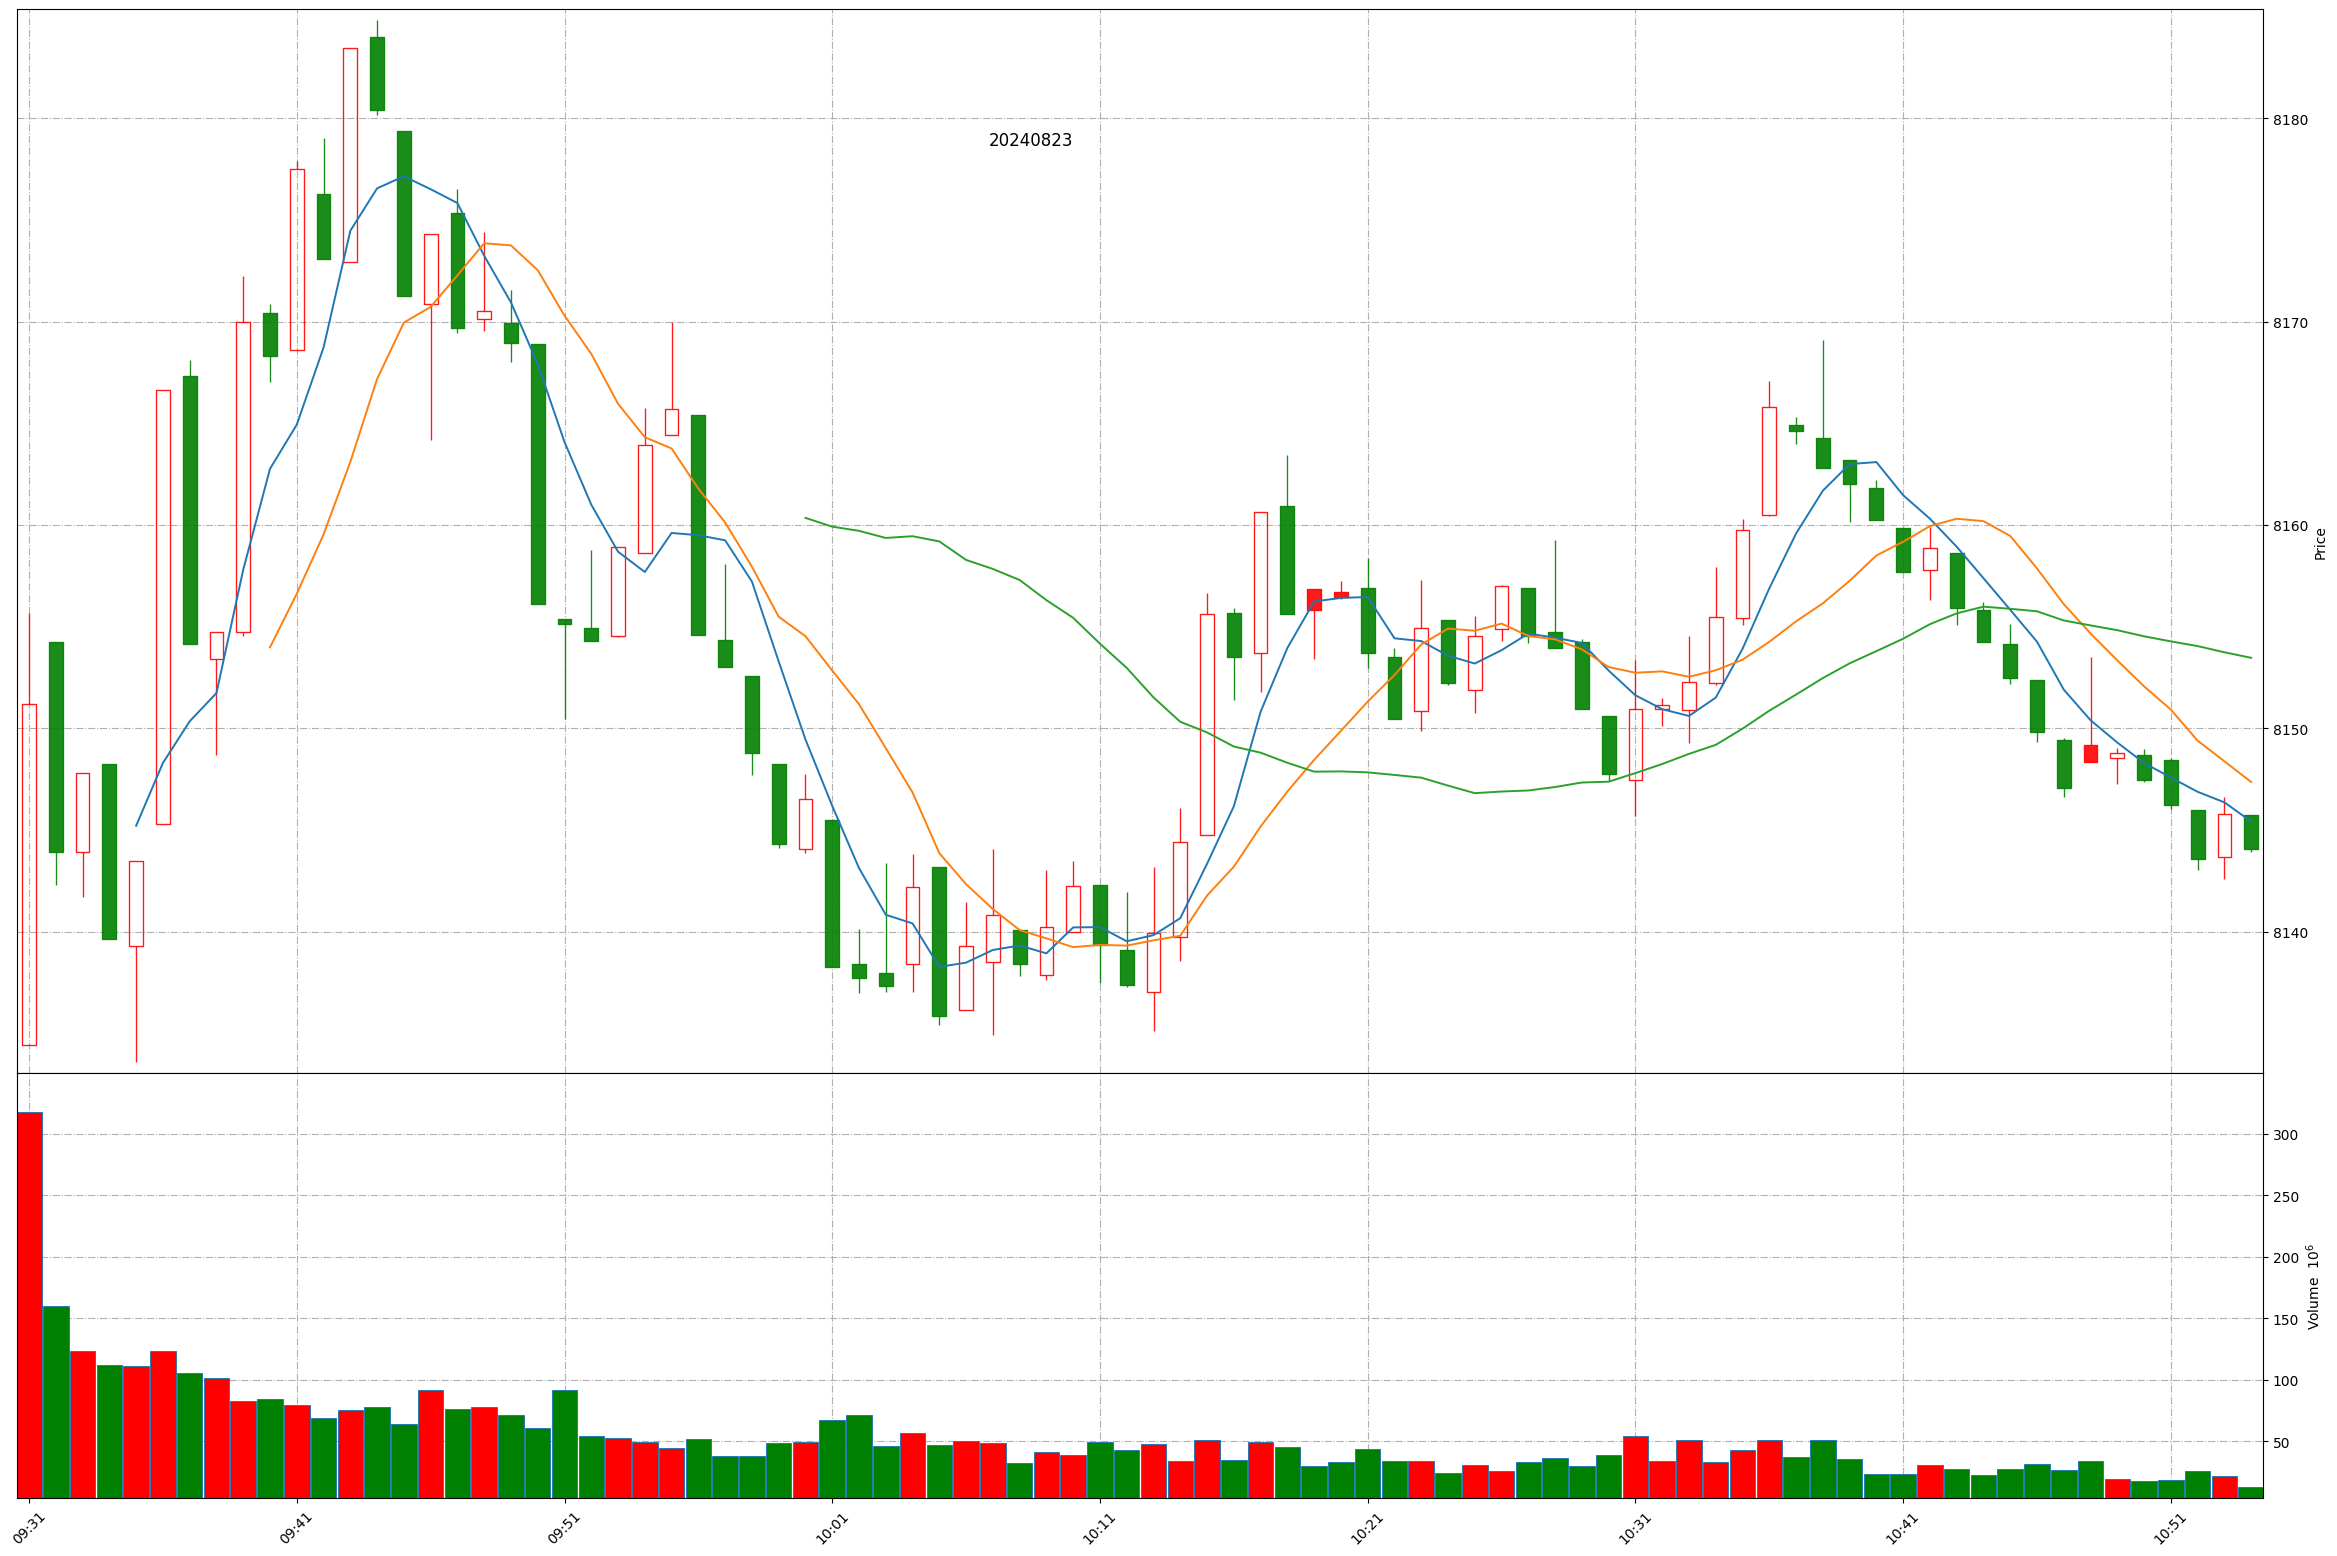
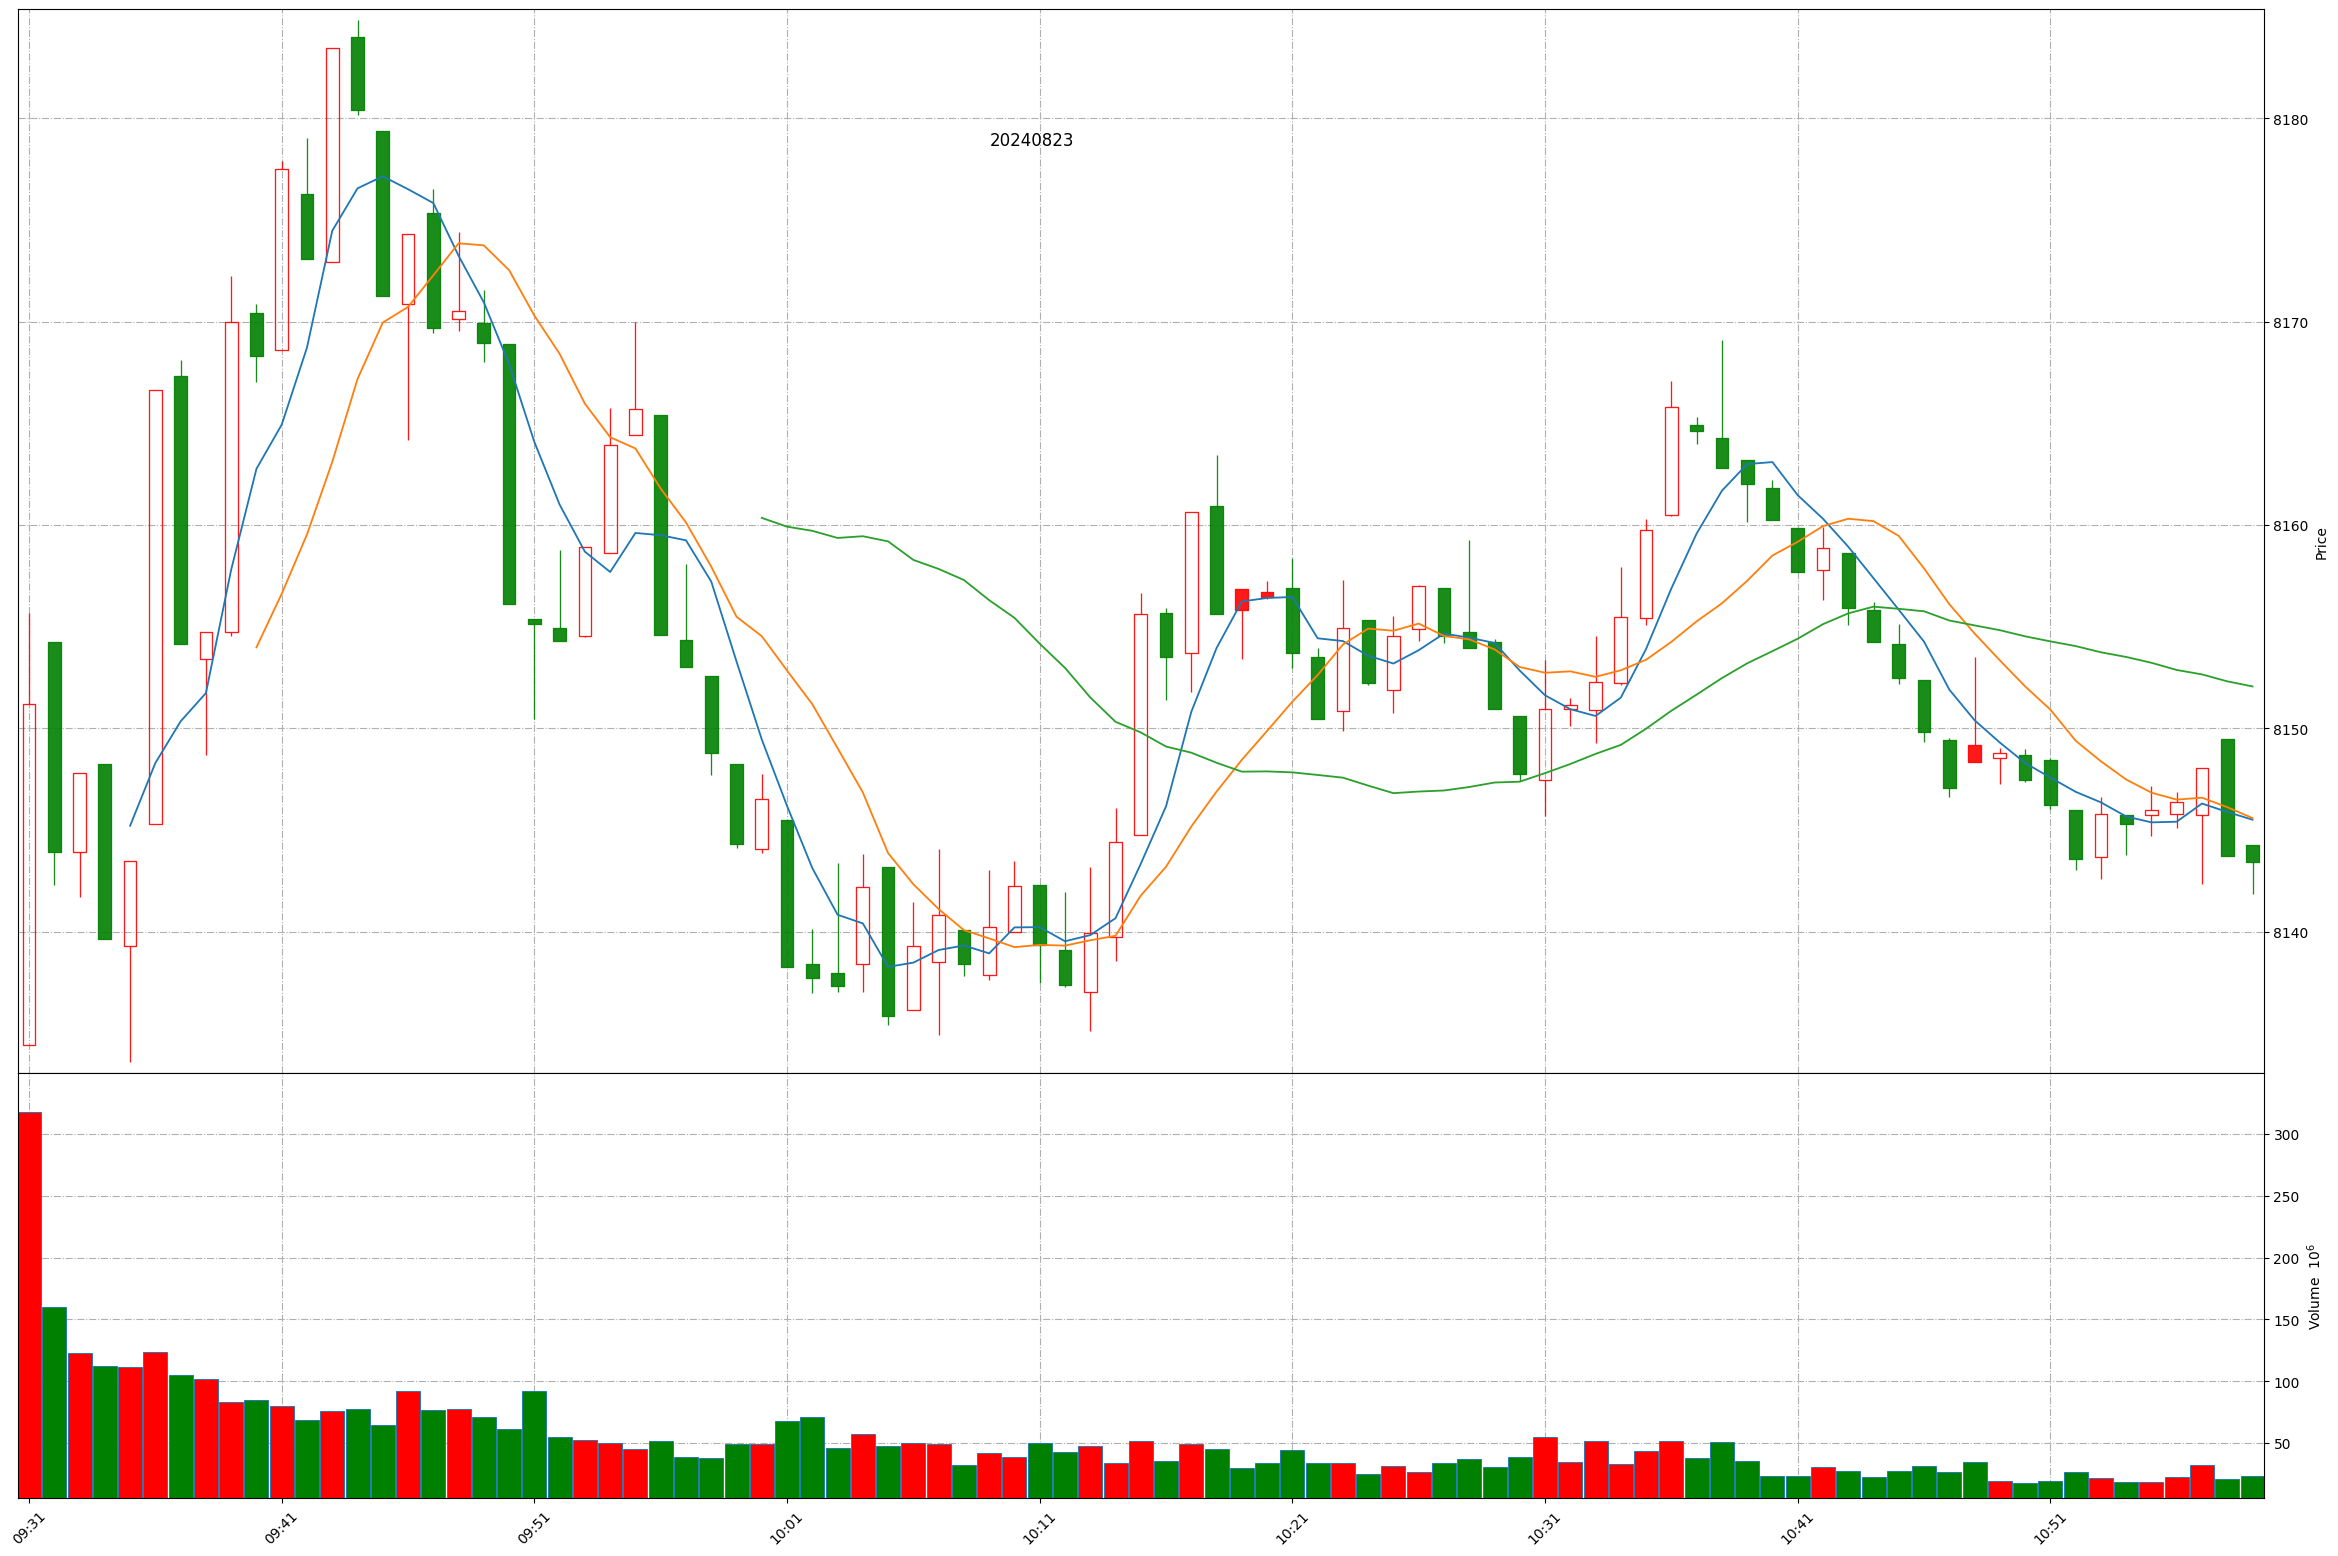
Github action update at 2024-08-23 10:59:15.

Changed region(s): [[0.0, 0.0308, 0.9683, 0.6787], [0.0, 0.8329, 0.9683, 0.9871], [0.3748, 0.3393, 0.4061, 0.3702]]

diff --git a/README.md b/README.md
@@ -1,11 +1,11 @@
 
 # Daily-A-share-market-quotes 每日 A 股指数（5min 更新）- 20240823
 
-### 上证指数 20240823 10:53
+### 上证指数 20240823 10:59
 ![](./fig/2024/8/20240823-sh000001.png)
 
-### 深证成指 20240823 10:53
+### 深证成指 20240823 10:59
 ![](./fig/2024/8/20240823-sz399001.png)
 
-### 北证50 20240823 10:53
+### 北证50 20240823 10:59
 ![](./fig/2024/8/20240823-bj899050.png)
